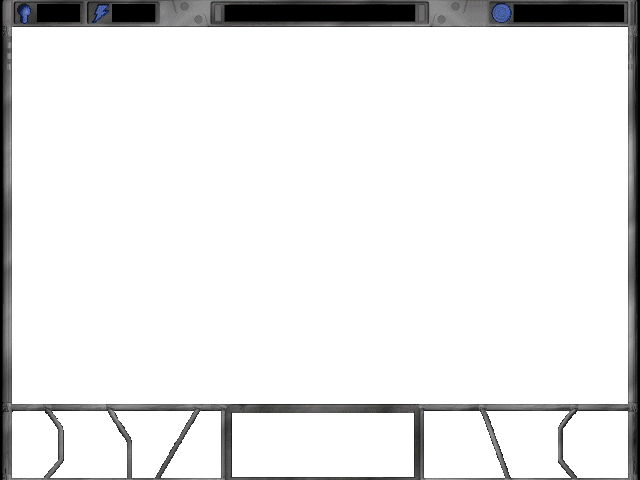
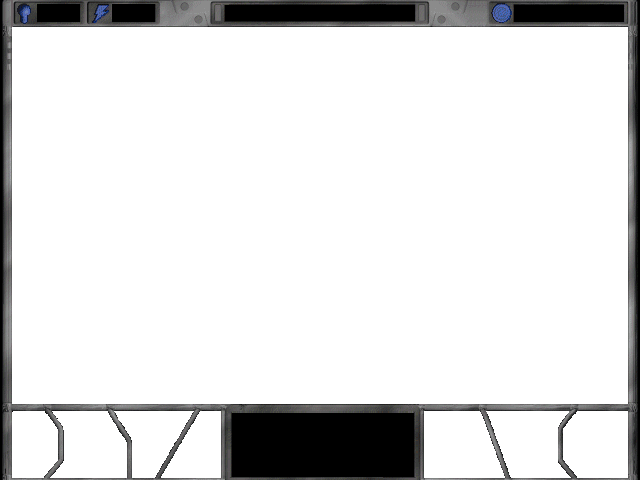
The construction tile selector now sizes appropriately and is correctly disabled if you can't build
It still needs to be extended to take into account intersections with other elements in a province

This lays the foundation for being able to support construction of all kinds of buildings

Changed region(s): [[0.3438, 0.8438, 0.6562, 1.0]]

diff --git a/frontend/src/js/scenes/Play.js b/frontend/src/js/scenes/Play.js
@@ -43,6 +43,7 @@ export default class Play extends Phaser.Scene {
 
         this.sounds = new Sounds();
         this.unitViews = {};
+        this.cachedTileSelectors = {};
     }
 
     init(data) {
@@ -143,6 +144,14 @@ export default class Play extends Phaser.Scene {
         );
     }
 
+    onConstructionModeUpdated() {
+        if (this.constructionMode) {
+            this.logo.visible = false;
+        } else {
+            this.logo.visible = true;
+        }
+    }
+
     // Converts pointer coordinates to tile x, y
     tileIndexFromCoordinates(x, y) {
         let h = this.tileSize.h;
@@ -167,34 +176,42 @@ export default class Play extends Phaser.Scene {
     }
 
     // TODO: all this needs to move to real modules
-    createTileSelector(enabled, size) {
-        let width = 70 * size.x;
-        let height = 54 * size.y;
-        let tileHeight = height / 3;
-        let graphics = this.add.graphics(width, height);
+    loadTileSelector(enabled, size) {
+        let { x, y } = size;
+        let key = `${x}-${y}-${enabled}`;
+
+        if (this.cachedTileSelectors[key]) {
+            return this.cachedTileSelectors[key];
+        }
+
+        let graphics = this.add.graphics((35 + (35 * x)) - (35 - (35 * y)), 19 + (18 * x) + (18 * y));
         graphics.lineStyle(1, 0xFFFFFF, 1.0);
         graphics.beginPath();
-        graphics.moveTo((width / 2) - 1, tileHeight);
-        graphics.lineTo(0, (tileHeight * 2) - 1);
-        graphics.lineTo(0, tileHeight * 2);
-        graphics.lineTo((width / 2) - 1, height);
-        graphics.lineTo((width / 2), height);
-        graphics.lineTo(width, tileHeight * 2);
-        graphics.lineTo(width, (tileHeight * 2) - 1);
-        graphics.lineTo((width / 2), tileHeight);
+        // top middle
+        graphics.moveTo(35, 18);
+        graphics.lineTo(36, 18);
+        // right based on width
+        graphics.lineTo(35 + (35 * x), 18 + (18 * x));
+        // bottom based on height
+        graphics.lineTo(35 + (35 * x) - (35 * y), 19 + (18 * x) + (18 * y));
+        // left based on height
+        graphics.lineTo(35 - (35 * y), 19 + (18 * y));
+        graphics.lineTo(35 - (35 * y), 18 + (18 * y));
         graphics.closePath();
         graphics.strokePath();
 
         // enabled == whether to draw a cross through it or not for construction
         if (!enabled) {
             graphics.beginPath();
-            graphics.moveTo((width / 2) - 1, tileHeight);
-            graphics.lineTo((width / 2) - 1, height);
-            graphics.moveTo(0, (tileHeight * 2) - 1);
-            graphics.lineTo(width, (tileHeight * 2) - 1);
-            graphics.closePath();
+            graphics.moveTo(35, 18);
+            graphics.lineTo(35 + (35 * x) - (35 * y), 19 + (18 * x) + (18 * y));
+            graphics.moveTo(35 - (35 * y), 19 + (18 * y));
+            graphics.lineTo(35 + (35 * x), 18 + (18 * x));
             graphics.strokePath();
         }
+
+        graphics.setDepth(1);
+        this.cachedTileSelectors[key] = graphics;
         return graphics;
     }
 
@@ -235,6 +252,8 @@ export default class Play extends Phaser.Scene {
                         .setInteractive({ cursor: 'url(' + structurePointer + '), pointer' });
 
                     structureImage.on('pointerdown', (_pointer, _x, _y, event) => {
+                        if (this.constructionMode) return;
+
                         event.stopPropagation();
                         this.onStructureSelected(structure, structureImage, tileIndex);
                     });
@@ -249,12 +268,52 @@ export default class Play extends Phaser.Scene {
 
                     this.unitViews[unit.id] = unitImage;
                     unitImage.on('pointerdown', (_pointer, _x, _y, event) => {
+                        if (this.constructionMode) return;
+
                         event.stopPropagation();
                         this.onUnitSelected(unit, tileIndex);
                     });
                 }
             }
             line++;
+        }
+    }
+
+    updateCurrentConstructionGraphics(tileIndex) {
+
+        if (!this.constructionMode) {
+            // hide all tile selectors
+            Object.values(this.cachedTileSelectors).forEach(graphics => { graphics.visible = false });
+            return;
+        }
+
+        let pos = this.screenCoordinates(tileIndex.x, tileIndex.y);
+
+        let size = { x: this.constructionMode.w, y: this.constructionMode.h };
+        let validForConstruction = this.layerBuilder.validForConstruction(tileIndex, size);
+
+        let graphics = this.loadTileSelector(validForConstruction, size);
+        graphics.setPosition(pos.x, pos.y);
+
+        // Only show the current tile selector graphic
+        Object.values(this.cachedTileSelectors).forEach(g => { g.visible = (graphics === g) });
+
+        // TODO: Update the text down the bottom based on this.constructionMode.kind
+        // Construction
+        // Road
+        // Cost 5 Credits
+    }
+
+    constructionCommand(mode, tileIndex) {
+        switch (mode.kind) {
+            case 'road':
+                return {
+                    action: 'ROAD',
+                    province: this.province,
+                    targetId: null,
+                    targetType: null,
+                    position: tileIndex
+                }
         }
     }
 
@@ -282,14 +341,6 @@ export default class Play extends Phaser.Scene {
         this.activeUnitSelection = this.add.image(0, 0, 'active-unit-selection').setOrigin(0.2, 0).setDepth(1);
         this.activeUnitSelection.visible = false;
 
-        // Render tile selection
-        // TODO: this should be specific to building a road, when exiting it should be destroyed
-        // when entering building mode we should just create a new one and assign it to constructionGraphics
-        // we should also have another one that is disabled
-        const constructionGraphics = this.createTileSelector(true, { x: 1, y: 1 })
-            .setDepth(1)
-            .setVisible(false);
-
         this.input.on('pointerdown', (pointer) => {
             if (this.topDialog) return;
             this.isDragging = true;
@@ -299,21 +350,12 @@ export default class Play extends Phaser.Scene {
         this.input.on('pointerup', (pointer) => {
             if (this.pointerUpNearPointerDown()) {
                 let tileIndex = this.tileIndexFromCoordinates(pointer.worldX, pointer.worldY);
-                let pos = this.screenCoordinates(tileIndex.x, tileIndex.y);
 
-                // if we are building a road
                 if (this.constructionMode) {
-                    constructionGraphics.setPosition(pos.x, pos.y);
-                    constructionGraphics.visible = this.layerBuilder.validForConstruction(tileIndex);
-
-                    // TODO: remove this debug line
-                    this.layerBuilder.processCommand({
-                        action: 'ROAD',
-                        province: this.province,
-                        targetId: null,
-                        targetType: null,
-                        position: tileIndex
-                    });
+                    let command = this.constructionCommand(this.constructionMode, tileIndex);
+                    if (command) {
+                        this.layerBuilder.processCommand(command);
+                    }
                 } else if (this.currentlySelectedUnit) {
                     // if we already have a selected unit
                     if (this.layerBuilder.unitCanOccupy(tileIndex)) {
@@ -327,14 +369,8 @@ export default class Play extends Phaser.Scene {
             this.touchStartCamera = null;
         }, this);
         this.input.on('pointermove', (pointer, _localX, _localY, event) => {
-            if (this.constructionMode) {
-                let tileIndex = this.tileIndexFromCoordinates(pointer.worldX, pointer.worldY);
-                let pos = this.screenCoordinates(tileIndex.x, tileIndex.y);
-                constructionGraphics.setPosition(pos.x, pos.y);
-                constructionGraphics.visible = this.layerBuilder.validForConstruction(tileIndex);
-            } else {
-                constructionGraphics.visible = false;
-            }
+            let tileIndex = this.tileIndexFromCoordinates(pointer.worldX, pointer.worldY);
+            this.updateCurrentConstructionGraphics(tileIndex);
 
             // move the map
             if (!this.isDragging) return;
@@ -349,7 +385,7 @@ export default class Play extends Phaser.Scene {
         this.input.setDefaultCursor('url(' + customCursor + '), pointer');
 
         // Static UI in a container
-        let ui = this.add.container(0, 0).setScrollFactor(0).setDepth(1);
+        let ui = this.add.container(0, 0).setScrollFactor(0).setDepth(2);
 
         ui.add(createButton(this, 12, 410, buttons.strategic.repair, (button) => {
             alert('No buildings or dropships damaged');
@@ -377,10 +413,11 @@ export default class Play extends Phaser.Scene {
                 this.constructionMode = null;
                 button.setHighlight(false);
             } else {
-                this.constructionMode = { w: 1, h: 1, name: 'road' };
+                this.constructionMode = { w: 1, h: 1, kind: 'road' };
                 this.activeUnitSelection.visible = false;
                 button.setHighlight(true);
             }
+            this.onConstructionModeUpdated();
         }));
         ui.add(createButton(this, 161, 410, buttons.strategic.recycle, (button) => { }));
         ui.add(createButton(this, 424, 410, buttons.strategic.map, (button) => { }));
@@ -389,9 +426,10 @@ export default class Play extends Phaser.Scene {
             this.scene.start('StrategicView', { gameId: this.gameId });
         }));
 
-        ui.add(this.add.image(232, 413, 'logo').setOrigin(0, 0));
-
         ui.add(this.add.image(0, 0, 'ui-strategic').setOrigin(0, 0));
+
+        this.logo = this.add.image(232, 413, 'logo').setOrigin(0, 0);
+        ui.add(this.logo);
 
         var cursors = this.input.keyboard.createCursorKeys();
 

diff --git a/frontend/src/js/components/LayerBuilder.js b/frontend/src/js/components/LayerBuilder.js
@@ -146,12 +146,12 @@ export default class LayerBuilder {
         return (this.structureModels[index.x] || [])[index.y];
     }
 
-    validForConstruction(tileIndex) {
+    validForConstruction(tileIndex, size, kind) {
         if (tileIndex.x < 0) return false;
         if (tileIndex.y < 0) return false;
-        if (tileIndex.y >= this.height) return false;
-        if (tileIndex.x >= this.width) return false;
-        // TODO: if it's something that can't be 'constructed' hide the cursor
+        if (tileIndex.y + size.y >= this.height) return false;
+        if (tileIndex.x + size.x >= this.width) return false;
+        // TODO: look at kind and check for collisions with units, structures, walls, roads and terrain
         return true;
     }
 
@@ -175,6 +175,7 @@ export default class LayerBuilder {
     }
 
     processCommand(command) {
+        // This makes no attempt to validate the command, that should have already been done
         switch (command.action) {
             case 'ROAD':
                 this.buildRoad(command.position);
